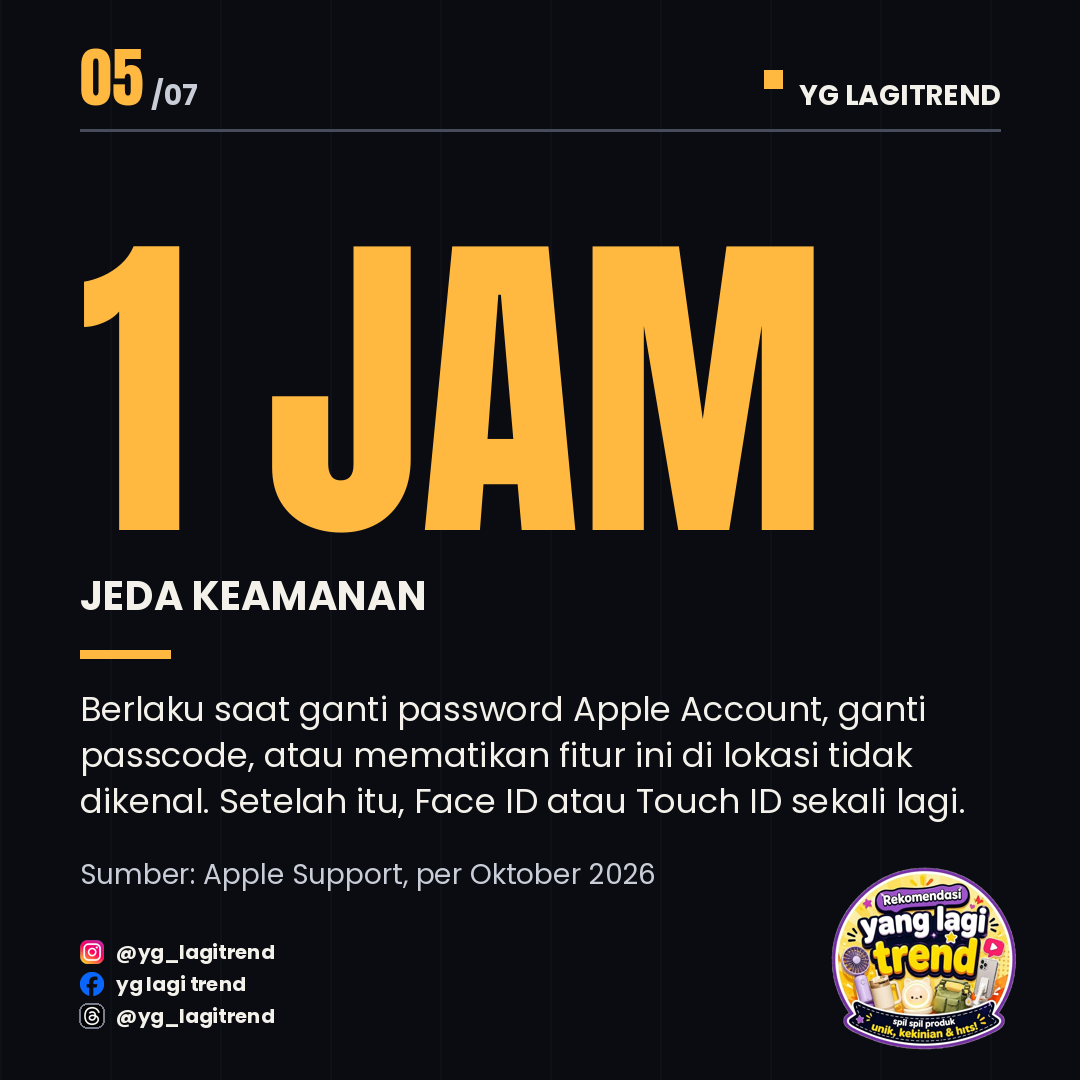
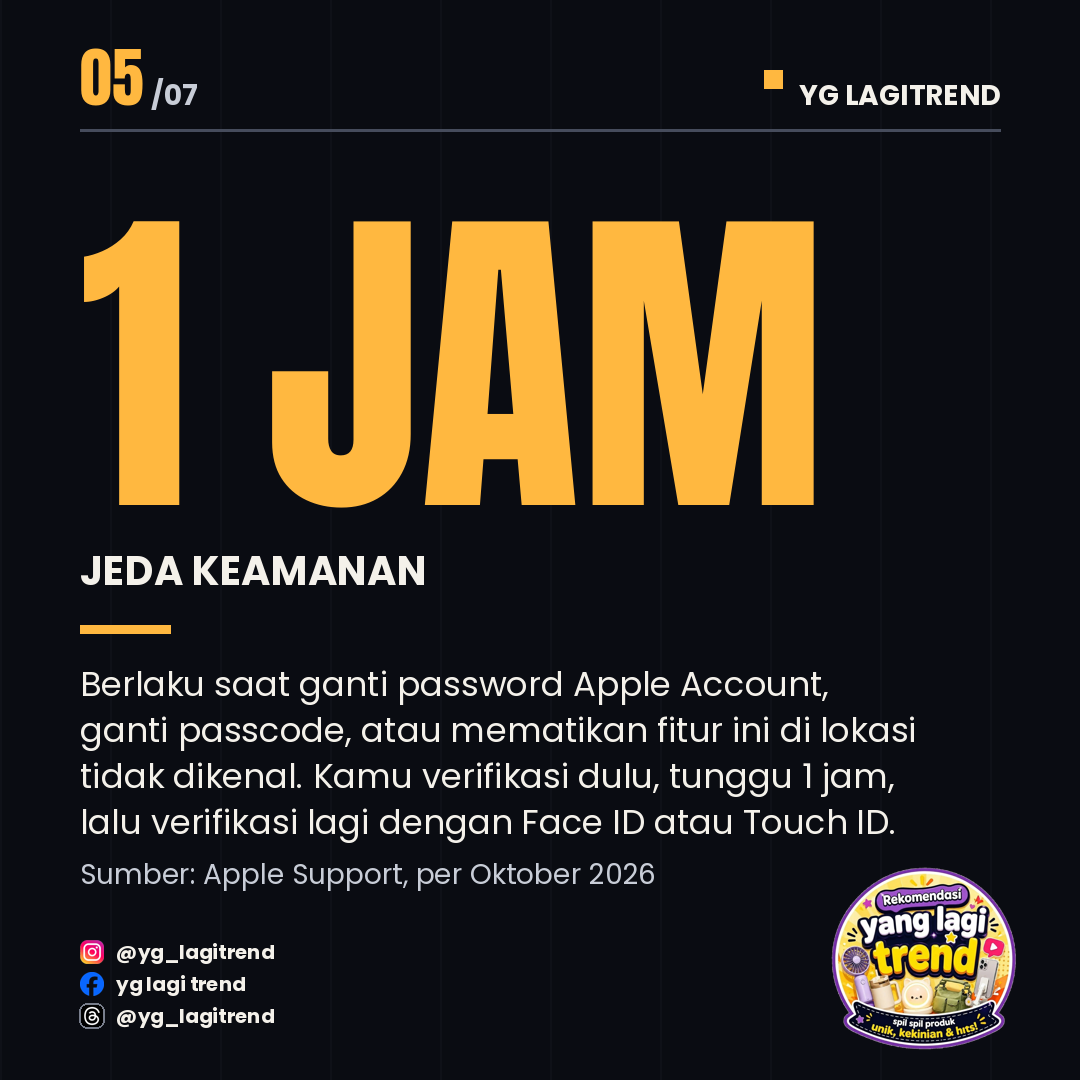
Perjelas kalimat slide jeda 1 jam

diff --git a/template/car_template_v2.py b/template/car_template_v2.py
@@ -84,9 +84,9 @@ def content(i,n,title,intro,items,src,numbered=True):
         for l in ls:d.text((195,ty),l,font=f,fill=WHITE);ty+=46
     return im
 def stat(i,n,big,cap,body,src):
-    im,d=frame(i,n,src);bf=F(AN,330);d.text((80,530),big,font=bf,fill=ACC,anchor='ls')
-    d.text((80,610),cap,font=F(PB,40),fill=WHITE,anchor='ls');d.rectangle([80,650,170,658],fill=ACC)
-    lines(d,80,685,body,F(PR,34),WHITE,900,46);return im
+    im,d=frame(i,n,src);bf=F(AN,330);d.text((80,505),big,font=bf,fill=ACC,anchor='ls')
+    d.text((80,585),cap,font=F(PB,40),fill=WHITE,anchor='ls');d.rectangle([80,625,170,633],fill=ACC)
+    lines(d,80,660,body,F(PR,34),WHITE,900,46);return im
 def closer(i,n,q,sub,src):
     im,d=frame(i,n,src);y=215;tf=F(AN,110)
     for l in bwrap(d,q,tf,920):d.text((80,y),l,font=tf,fill=WHITE);y+=130
